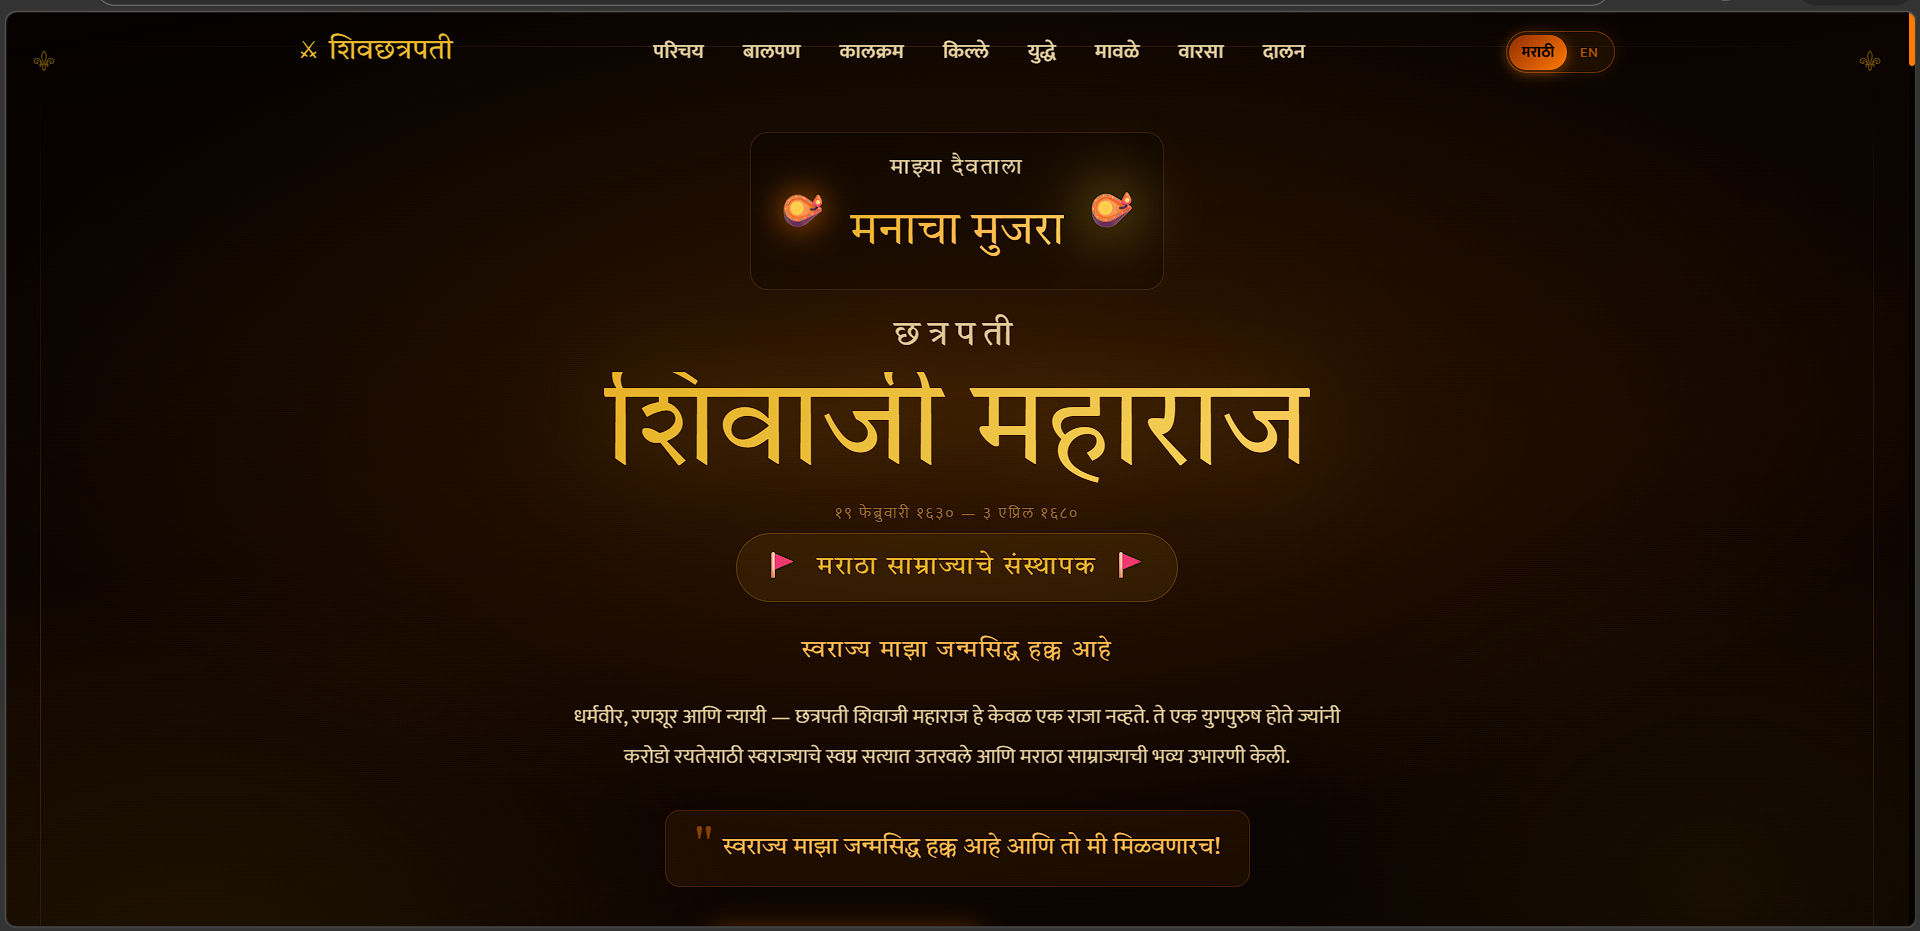
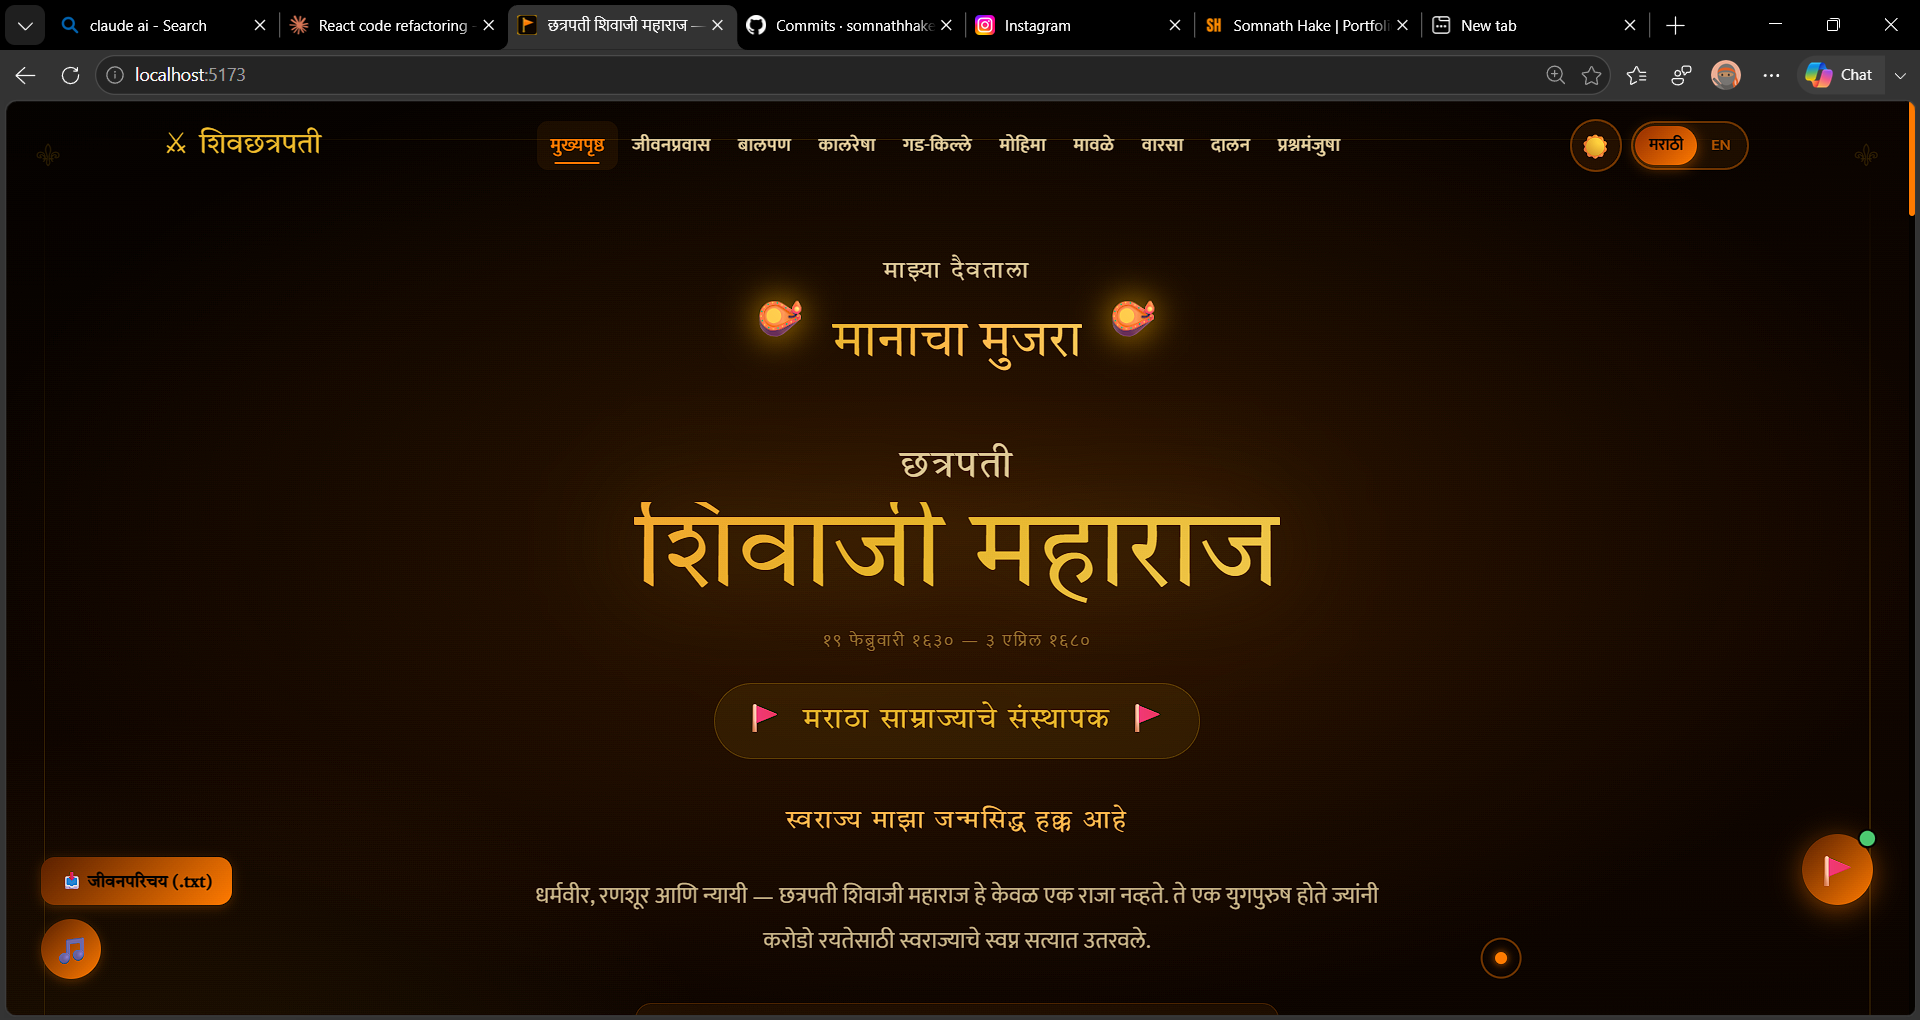
fix: resolve jsx lint errors

diff --git a/frontend/src/App.jsx b/frontend/src/App.jsx
@@ -2211,7 +2211,7 @@ function ProjectCard({
             letterSpacing: "1px",
           }}
         >
-          // project
+          {/* project */}
         </div>
       </div>
       <div
@@ -2449,7 +2449,7 @@ function ProjectsSection({ isLight }) {
             fontFamily: "'Fira Code',monospace",
           }}
         >
-          // no projects match this filter
+          {/* no projects match this filter */}
         </div>
       )}
 
@@ -2966,7 +2966,7 @@ function ContactSection({ isLight }) {
                 opacity: 0.7,
               }}
             >
-              // send_message()
+              {/* send_message() */}
             </p>
             {status === "success" ? (
               <div
@@ -3188,7 +3188,7 @@ function ContactSection({ isLight }) {
                 marginBottom: "0.7rem",
               }}
             >
-              // response_time
+              {/* response_time */}
             </h4>
             {[
               { ch: "📧", label: "Email", val: "< 24 hours" },
@@ -3245,7 +3245,6 @@ function ContactSection({ isLight }) {
                 marginBottom: "0.9rem",
               }}
             >
-              // quick_links
             </h4>
             {[
               { label: "Download CV", href: "assets/resume.pdf", icon: "📄" },
